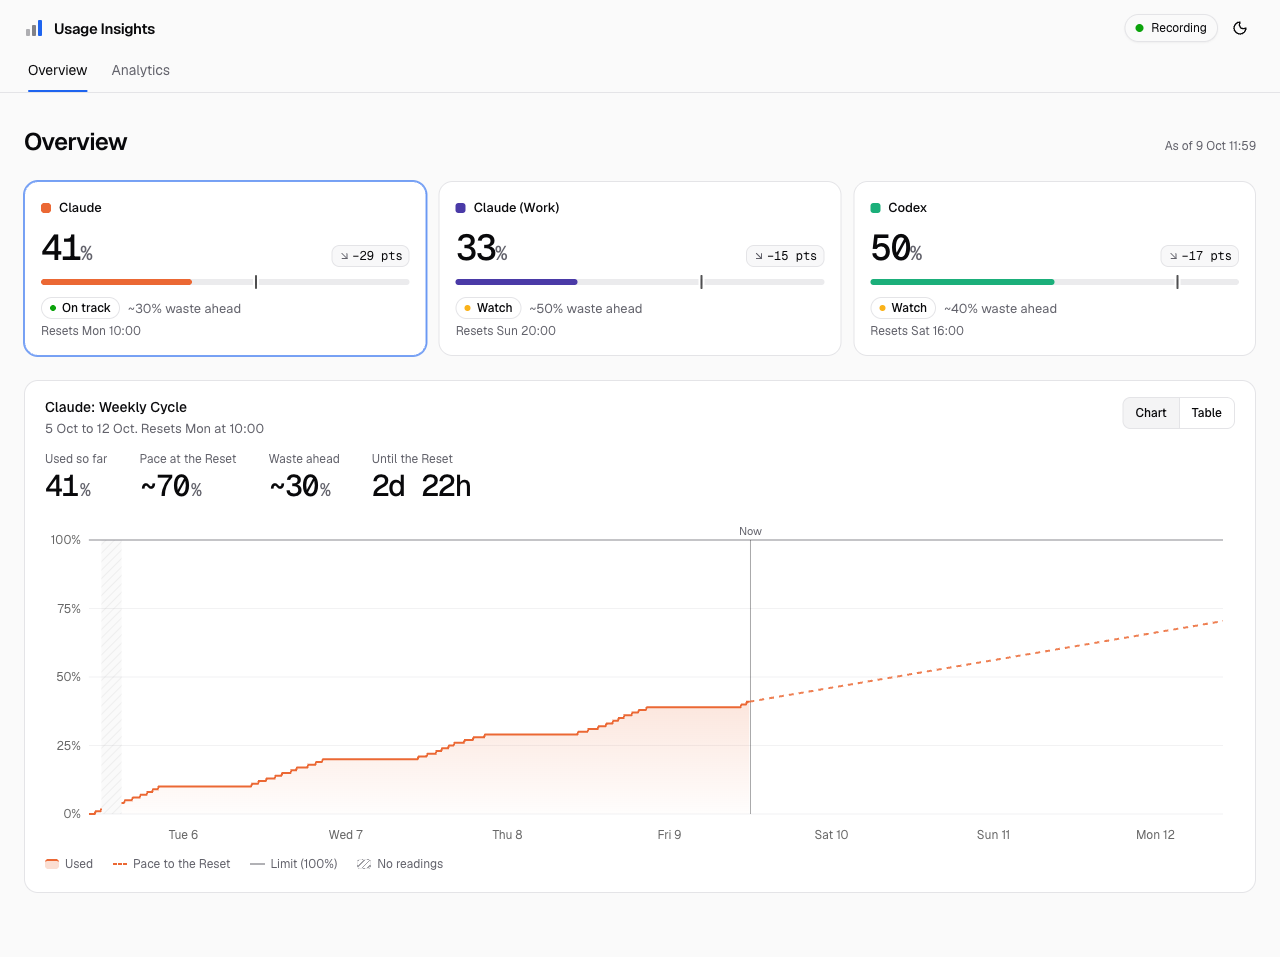
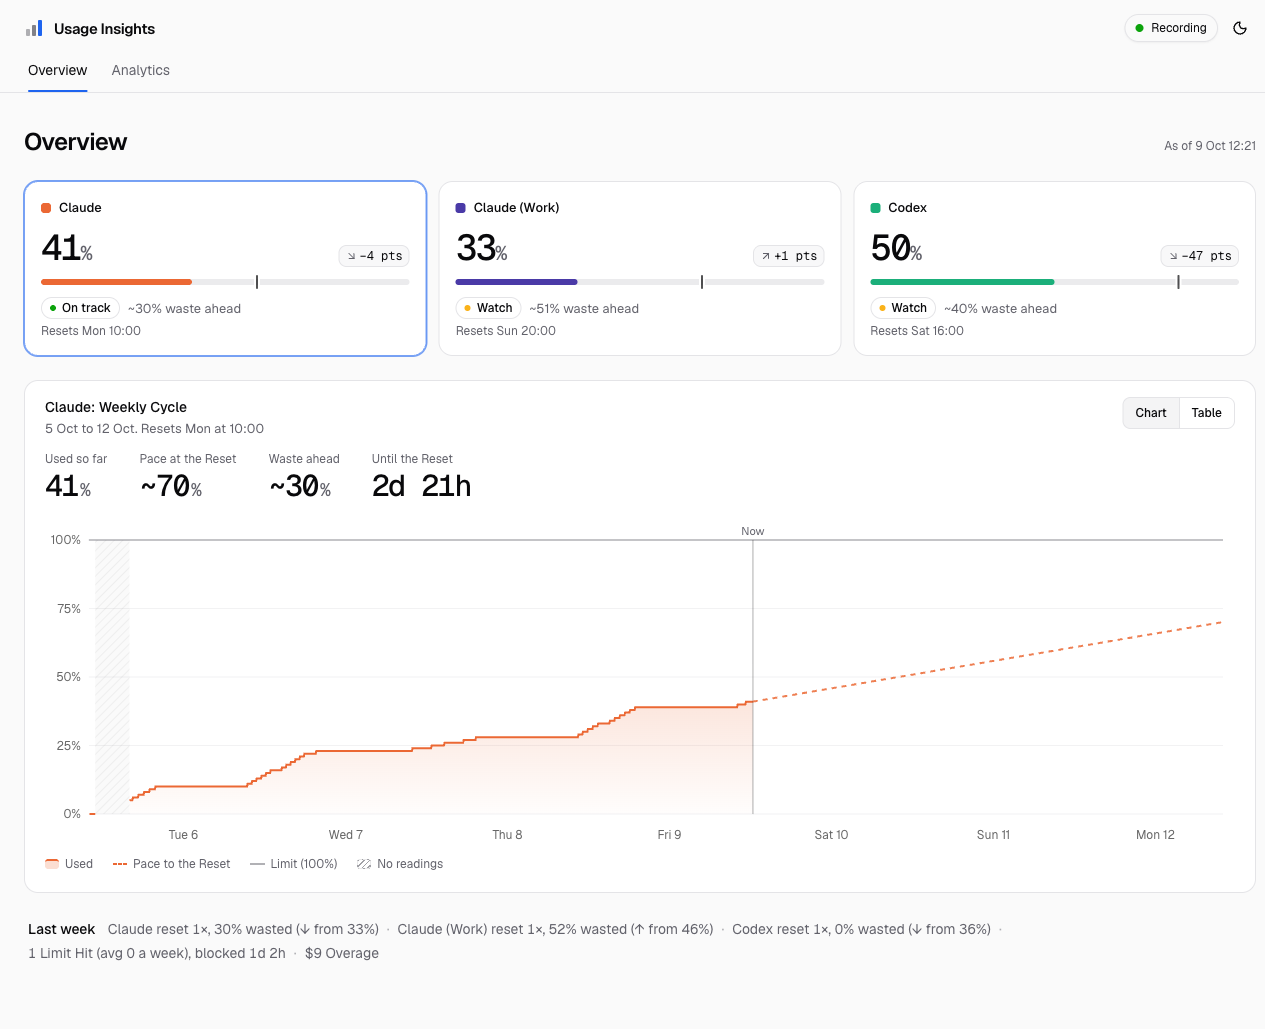
Last week row wraps between items; Overview screenshots with it (sample data)

diff --git a/web/components/overview/last-week.tsx b/web/components/overview/last-week.tsx
@@ -28,16 +28,17 @@ export function LastWeekRow() {
   const line = lastWeekLine(week.data);
   const items = [...line.cycles, line.limitHits, line.overage];
   return (
-    <p className="px-1 text-sm leading-6 text-muted-foreground" aria-label="Last week">
-      <span className="mr-2 font-medium text-foreground">Last week</span>
+    // A wrapping row: each item stays whole, and long weeks wrap between items, never off the page.
+    <p className="flex flex-wrap items-baseline gap-x-2 px-1 text-sm leading-6 text-muted-foreground" aria-label="Last week">
+      <span className="mr-1 font-medium whitespace-nowrap text-foreground">Last week</span>
       {items.map((item, i) => (
         <Fragment key={i}>
           {i > 0 ? (
-            <span aria-hidden className="mx-2 text-muted-foreground/50">
+            <span aria-hidden className="text-muted-foreground/50">
               ·
             </span>
           ) : null}
-          <span className="whitespace-nowrap tabular-nums">{item}</span>
+          <span className="tabular-nums">{item}</span>
         </Fragment>
       ))}
     </p>
